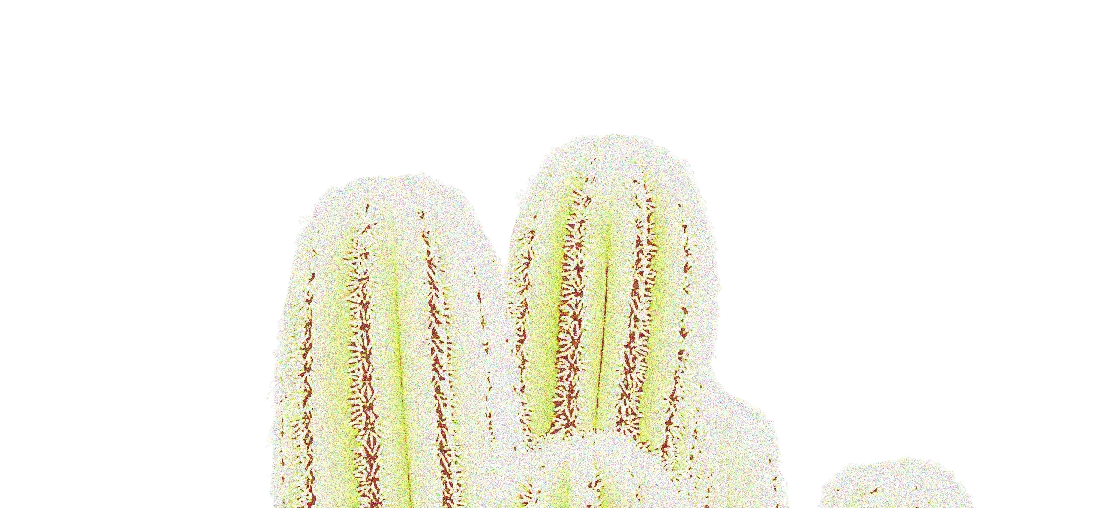
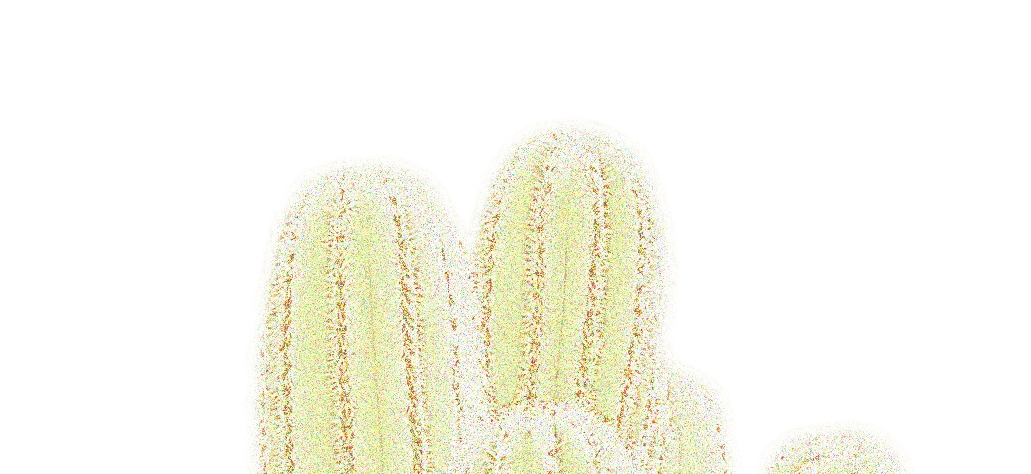
History preview: paler mockup-style cacti as a band along the bottom of variant 9

Changed region(s): [[0.2483, 0.2658, 0.7139, 1.0], [0.7449, 0.8861, 0.9001, 1.0]]

diff --git a/history-variants.html b/history-variants.html
@@ -194,8 +194,9 @@
 .v9 .pol b { color: var(--red); font-weight: 400; }
 .v9 .quote { left: calc(100 * var(--u)); top: calc(1160 * var(--u)); width: calc(520 * var(--u)); background: var(--red); color: var(--white); font: 400 calc(28 * var(--u))/1.05 var(--body); text-transform: uppercase; padding: calc(16 * var(--u)) calc(20 * var(--u)); z-index: 3; }
 .v9 .mar { left: calc(1085 * var(--u)); top: calc(625 * var(--u)); rotate: 22deg; }
-.v9 .cac { left: calc(560 * var(--u)); width: calc(720 * var(--u)); }
-.v9 .cac--2 { left: calc(-20 * var(--u)); width: calc(560 * var(--u)); }
+.v9 .cac { z-index: 0; left: calc(-40 * var(--u)); width: calc(900 * var(--u)); }
+.v9 .cac--2 { left: calc(600 * var(--u)); width: calc(1000 * var(--u)); }
+.v9 .cac--3 { left: calc(1250 * var(--u)); width: calc(820 * var(--u)); }
 
 /* ---------- 10. Газетная вырезка и штамп на карте ---------- */
 .v10 .clip { left: calc(100 * var(--u)); top: calc(395 * var(--u)); width: calc(960 * var(--u)); padding: calc(36 * var(--u)) calc(44 * var(--u)) calc(64 * var(--u)); box-sizing: border-box; background: #EFE8D6; rotate: -1.2deg; z-index: 2; clip-path: polygon(0% 0%, 100% 0%, 100.0% 99.48%, 98.7% 99.13%, 97.2% 99.85%, 95.5% 97.98%, 93.2% 98.32%, 91.6% 98.82%, 90.1% 99.62%, 88.7% 99.53%, 86.2% 98.18%, 83.9% 98.24%, 82.4% 99.32%, 80.3% 98.39%, 77.9% 98.06%, 76.6% 98.67%, 74.5% 98.89%, 73.0% 98.96%, 71.7% 97.94%, 69.3% 98.80%, 67.7% 98.00%, 65.7% 98.06%, 63.3% 98.88%, 61.5% 98.68%, 59.7% 99.65%, 58.1% 98.21%, 56.8% 99.90%, 54.7% 99.38%, 52.8% 98.96%, 51.1% 97.81%, 49.6% 99.09%, 48.1% 98.61%, 46.6% 99.22%, 44.3% 99.29%, 42.3% 98.01%, 41.0% 99.86%, 39.5% 98.32%, 37.4% 99.48%, 35.7% 99.61%, 33.9% 99.91%, 31.7% 98.03%, 29.2% 98.38%, 26.6% 99.96%, 25.0% 97.87%, 22.8% 99.10%, 20.2% 98.63%, 17.9% 99.35%, 16.4% 99.02%, 15.0% 99.16%, 12.5% 99.27%, 11.3% 99.90%, 9.8% 98.28%, 8.1% 99.36%, 6.8% 97.84%, 5.0% 99.54%, 3.7% 99.88%, 2.3% 98.51%, 0.9% 99.91%, 0% 99%); }
@@ -407,6 +408,9 @@
 <!-- ===================== 9 ===================== -->
 <h2 class="vhead"><b>Вариант 9</b><span>Подзаголовок, даты-бирки и полароид</span></h2>
 <section class="vb v9">
+  <img class="cac" src="assets/cactus-pale.webp" alt="">
+  <img class="cac cac--2" src="assets/cactus-pale-2.webp" alt="">
+  <img class="cac cac--3" src="assets/cactus-pale-3.webp" alt="">
   <img class="bigmap" src="assets/map.webp" alt="Карта Мексики, штат Чиуауа выделен">
   <h3 class="d ttl">Древние&nbsp; корни</h3>
   <img class="som" src="assets/sombrero.png" alt="">
@@ -420,8 +424,6 @@
   <p class="quote">В их характере до сих пор чувствуется древняя сила: проницательность, смелость и&nbsp;связь с&nbsp;человеком</p>
   <img class="flag" src="assets/flag.png" alt="">
   <img class="mar" src="assets/maracas.png" alt="">
-  <img class="cac" src="assets/cactus-pale.webp" alt="">
-  <img class="cac cac--2" src="assets/cactus-pale-2.webp" alt="">
   <svg class="star" style="--x:660;--y:1210;--s:46" aria-hidden="true"><use href="#star"/></svg>
   <svg class="star" style="--x:1540;--y:1420;--s:40" aria-hidden="true"><use href="#star"/></svg>
 </section>
